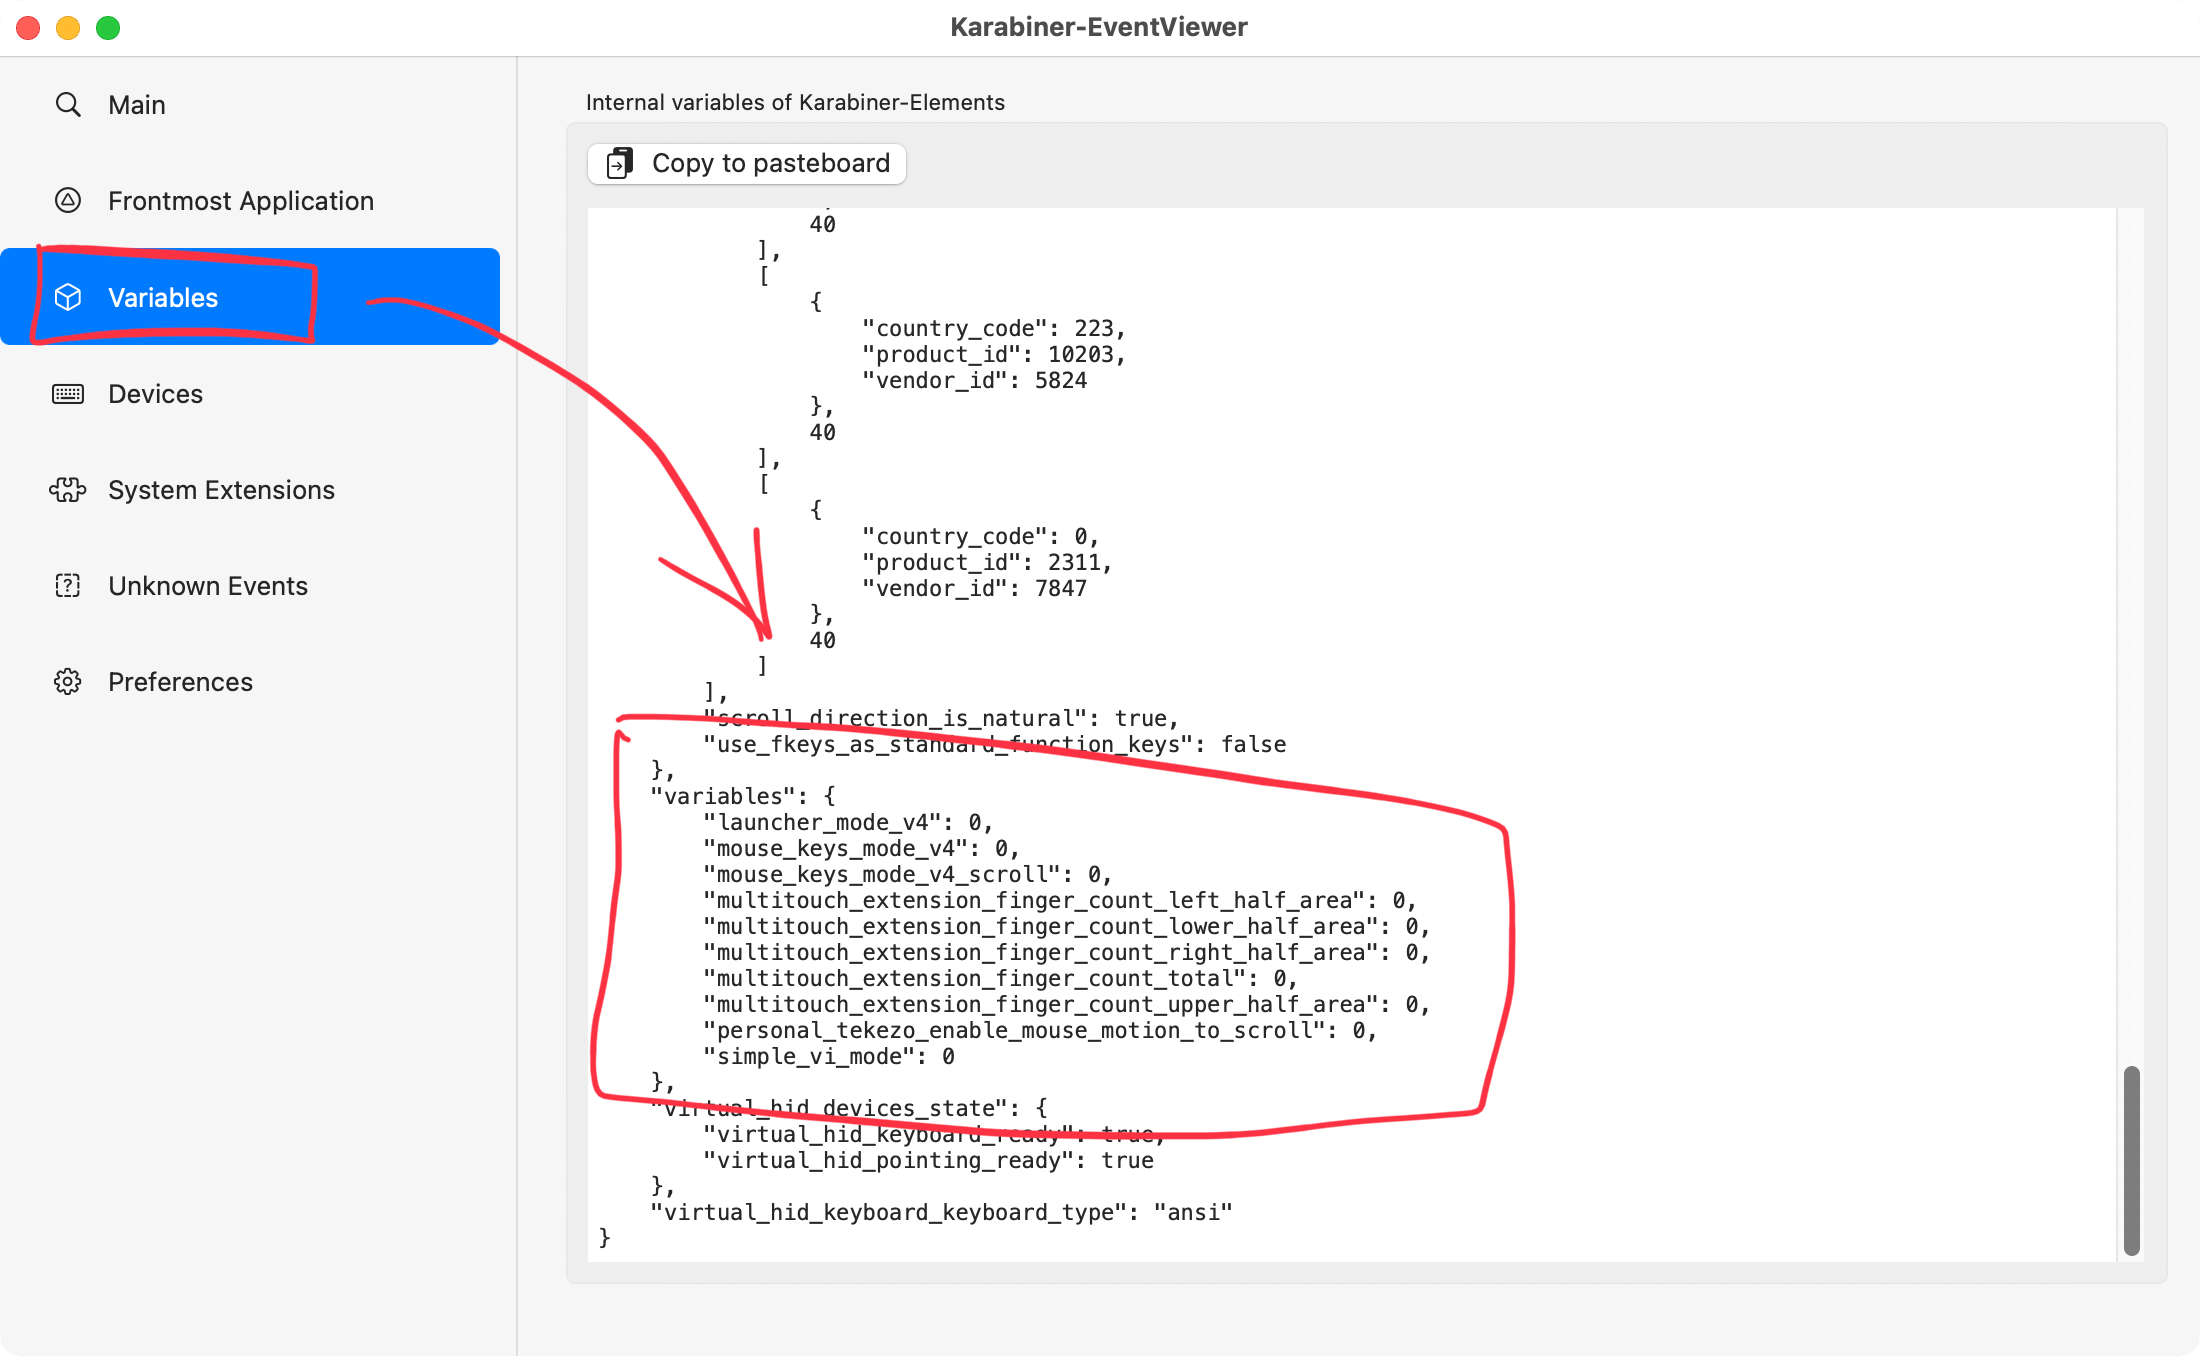
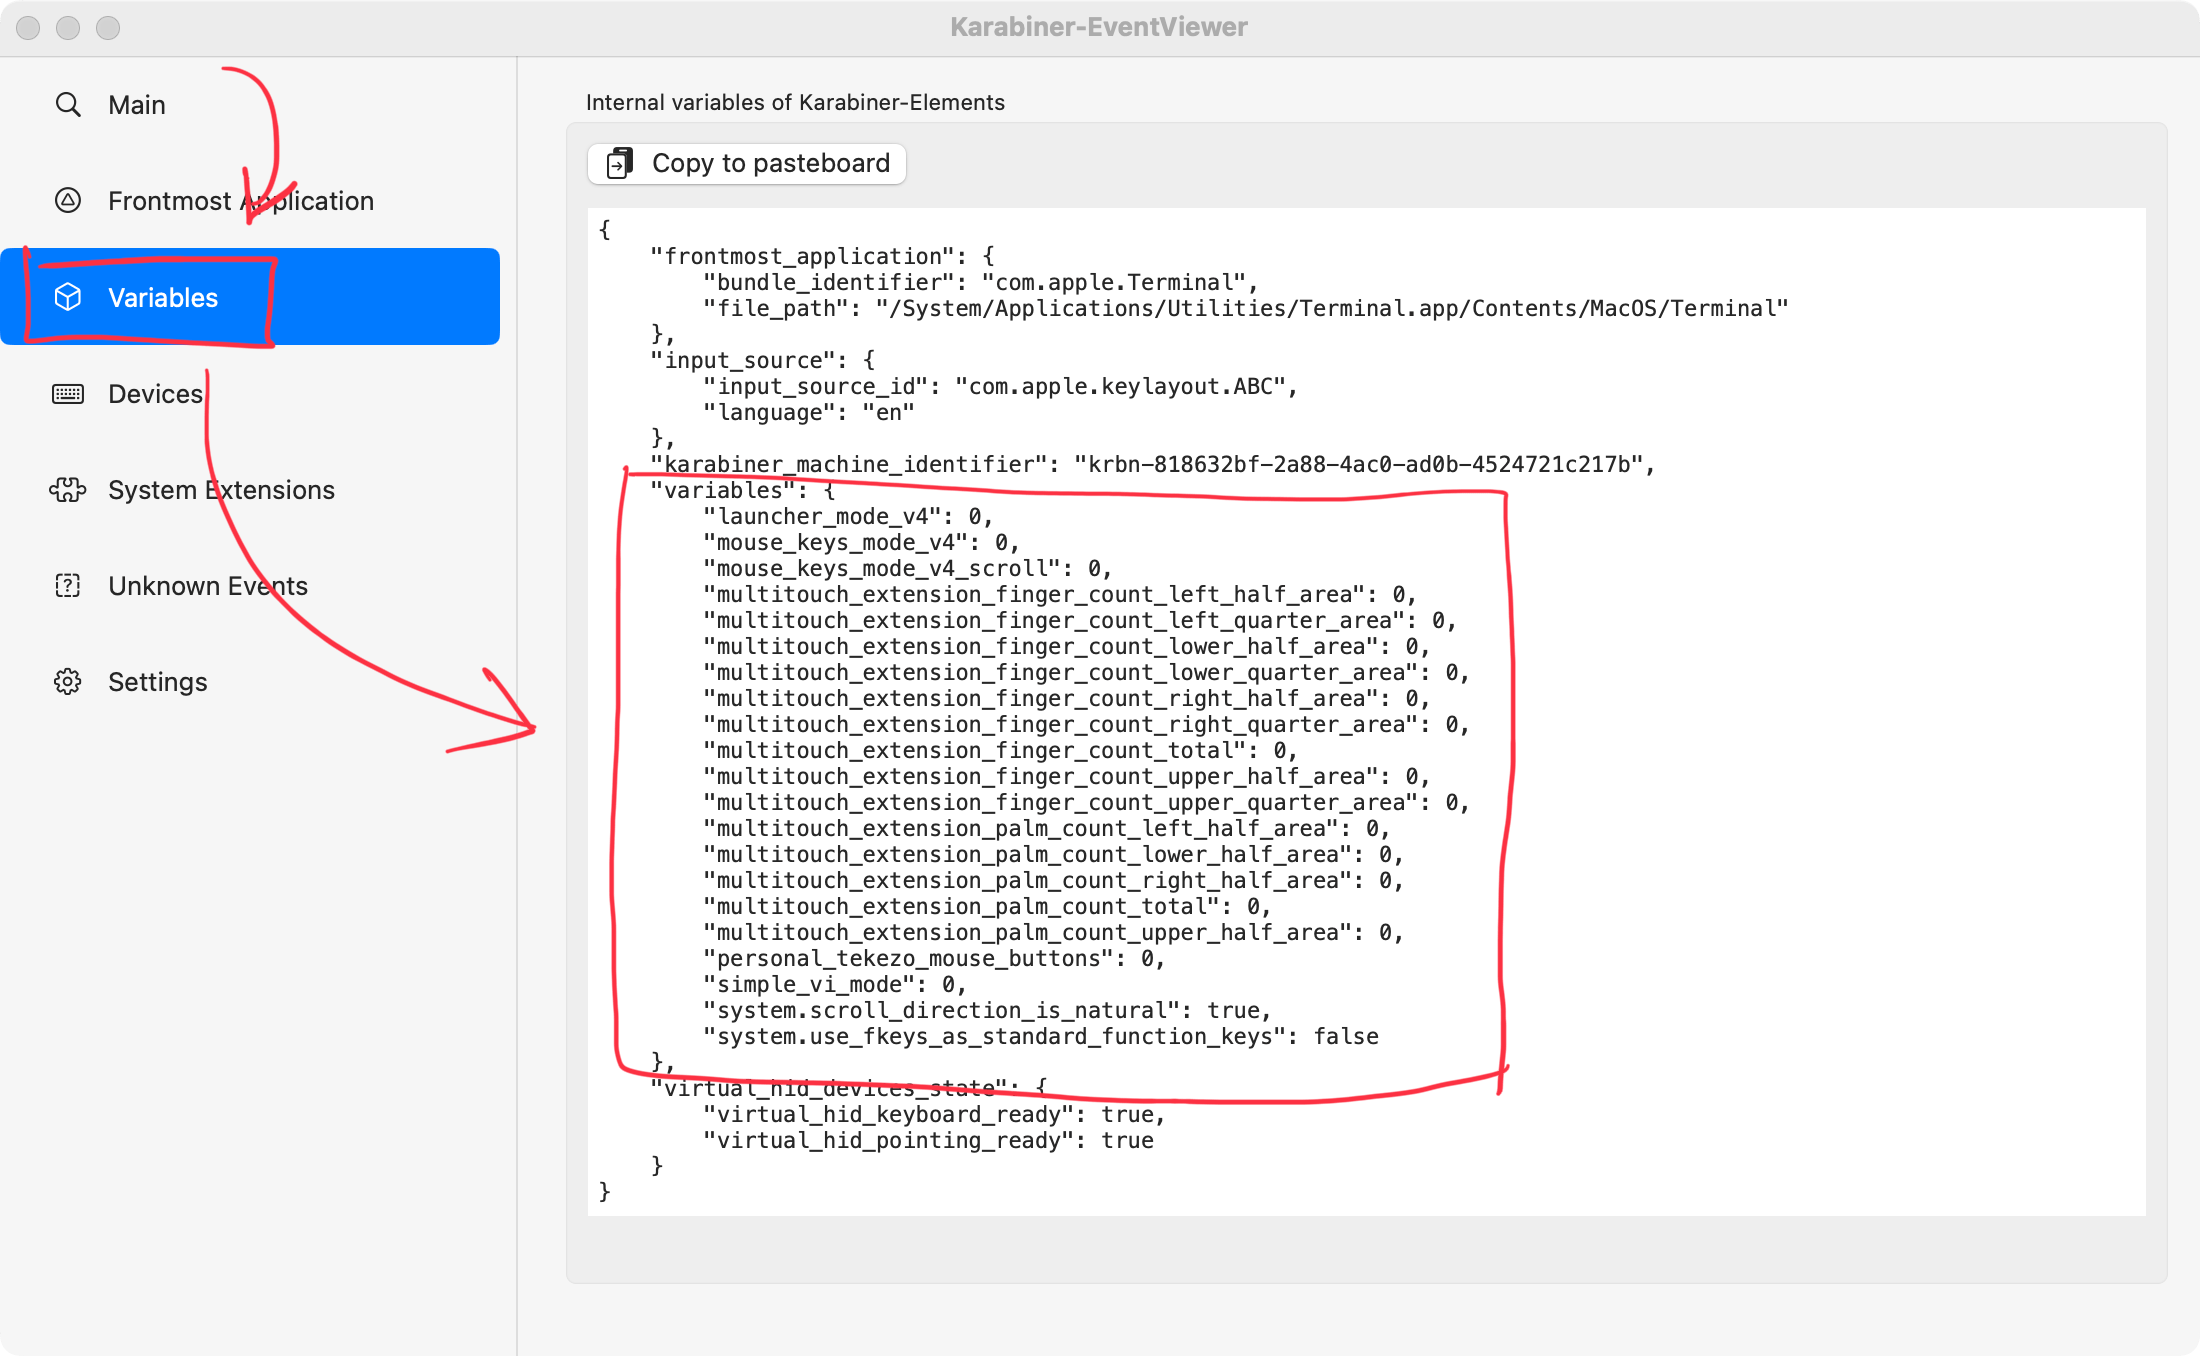
Update complex-modifications-manipulator-definition/conditions/variable/index.md

diff --git a/sites/karabiner-elements/content/en/docs/json/complex-modifications-manipulator-definition/conditions/variable/index.md b/sites/karabiner-elements/content/en/docs/json/complex-modifications-manipulator-definition/conditions/variable/index.md
@@ -16,7 +16,10 @@ Change an event if/unless the variable is the specified value.
 
 {{% alert title="Tip" color="primary" %}}
 
-`variable_if` and `variable_unless` are designed to use with [`set_variable`](../../to/set-variable/).
+`variable_if` and `variable_unless` are designed to be used with the following features:
+
+-   [`set_variable`](../../to/set-variable/)
+-   [`--set-variables` in command line interface](/docs/manual/misc/command-line-interface/)
 
 {{% /alert %}}
 
@@ -65,3 +68,12 @@ If the variable is not set to a value, the value is treated as `0`.
 You can see the current variable values by EventViewer > Variables.
 
 {{< local-image src="images/eventviewer-variables@2x.png" >}}
+
+## System variables
+
+Some variables are automatically set by Karabiner-Elements.
+
+| Name                                         | Type    | Data source                                                                          | Available since           |
+| -------------------------------------------- | ------- | ------------------------------------------------------------------------------------ | ------------------------- |
+| `system.scroll_direction_is_natural`         | boolean | The scroll direction setting of mouse in System Settings                             | Karabiner-Elements 15.2.3 |
+| `system.use_fkeys_as_standard_function_keys` | boolean | The "Use all F1, F2, etc. keys as standard function keys" setting in System Settings | Karabiner-Elements 15.2.3 |
